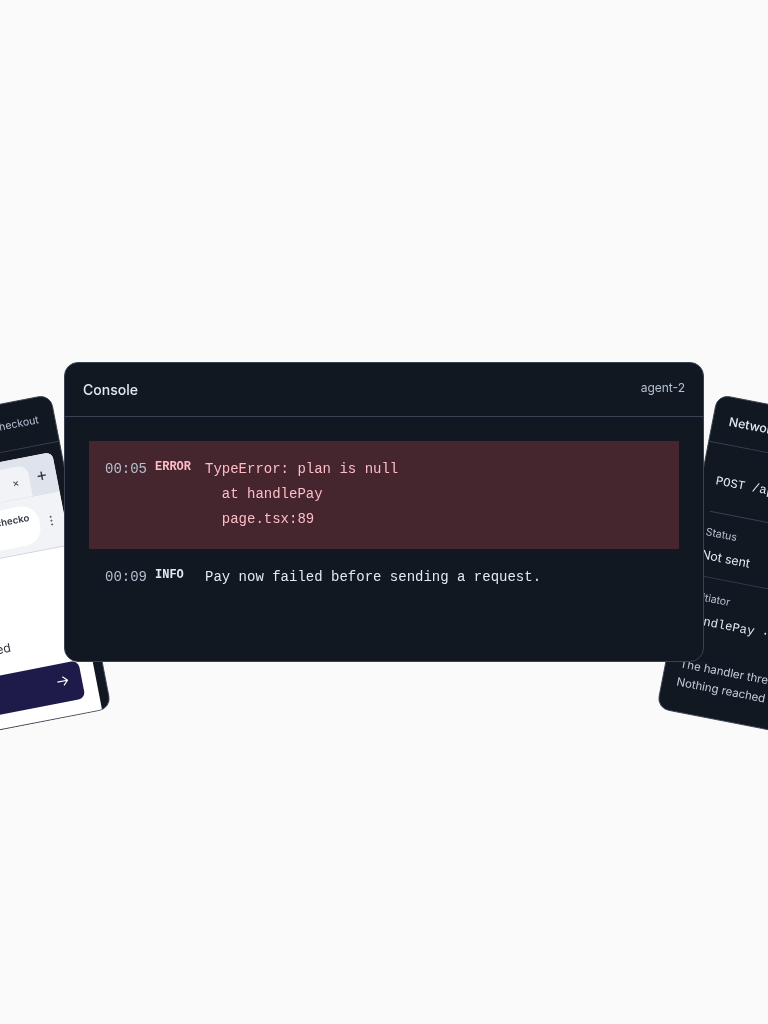
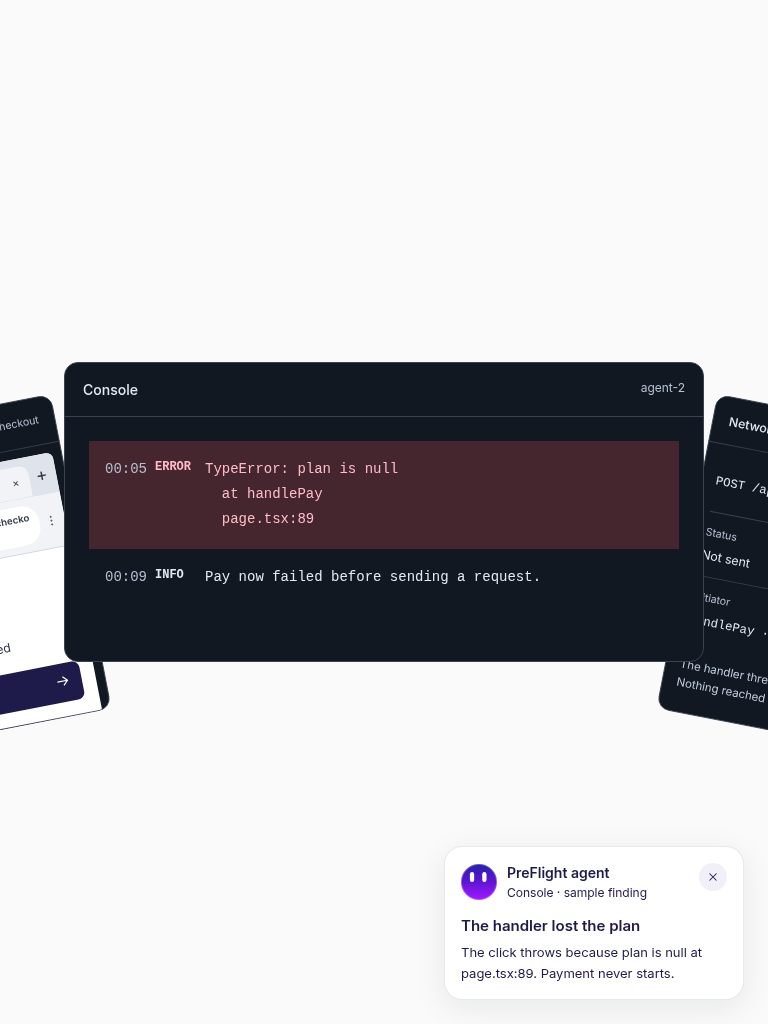
Show contextual robot agent findings beside expanded evidence

Changed region(s): [[0.5938, 0.8438, 0.9062, 0.9688]]

diff --git a/components/RunScrollSequence.tsx b/components/RunScrollSequence.tsx
@@ -1,6 +1,7 @@
 "use client";
 
 import { Children, useEffect, useRef, useState, type ReactNode } from "react";
+import AgentOverview from "./AgentOverview";
 
 export default function RunScrollSequence({
   children,
@@ -11,6 +12,7 @@ export default function RunScrollSequence({
   const frame = useRef<HTMLDivElement>(null);
   const [pinned, setPinned] = useState(false);
   const [active, setActive] = useState(0);
+  const [finding, setFinding] = useState<number | null>(null);
   const scenes = Children.toArray(children);
 
   useEffect(() => {
@@ -60,7 +62,14 @@ export default function RunScrollSequence({
         "data-run-pinned",
         enabled && bounds.top <= 0 && bounds.bottom >= window.innerHeight,
       );
-      if (!enabled) return;
+      if (!enabled) {
+        setFinding(null);
+        cards.forEach((card) => {
+          card.removeAttribute("aria-hidden");
+          card.inert = false;
+        });
+        return;
+      }
       const distance = element.offsetHeight - viewport.offsetHeight;
       const progress =
         distance > 0
@@ -79,6 +88,7 @@ export default function RunScrollSequence({
         const open = Math.min(1, local / 0.7);
         const front = local < 1 ? -1 : Math.min(2, Math.floor(local - 1));
         fan.dataset.front = String(front);
+        setFinding(next === fanScene && front >= 0 ? front : null);
         const cardWidth = Math.min(260, fan.clientWidth * 0.7);
         const cardHeight = cardWidth * 1.4;
         const spread = Math.max(
@@ -120,6 +130,9 @@ export default function RunScrollSequence({
           const focused = index === front;
           card.dataset.front = String(focused);
           const parked = front >= 0 && !focused;
+          // The parked edge previews are decorative until their own scroll beat.
+          card.setAttribute("aria-hidden", String(parked));
+          card.inert = parked;
           const x = parked
             ? side * (window.innerWidth / 2 + cardWidth * 0.12)
             : side * spread * open;
@@ -190,6 +203,9 @@ export default function RunScrollSequence({
             <div className="run-scene-content">{scene}</div>
           </div>
         ))}
+        {pinned && finding !== null && (
+          <AgentOverview key={finding} finding={finding} />
+        )}
       </div>
     </div>
   );

diff --git a/components/AgentOverview.tsx b/components/AgentOverview.tsx
@@ -1,0 +1,76 @@
+"use client";
+
+import { useState } from "react";
+
+const FINDINGS = [
+  {
+    source: "Screenshot",
+    title: "Checkout stalled",
+    description:
+      "Pro is selected. Three clicks on Pay now, and the page still hasn’t responded.",
+  },
+  {
+    source: "Console",
+    title: "The handler lost the plan",
+    description:
+      "The click throws because plan is null at page.tsx:89. Payment never starts.",
+  },
+  {
+    source: "Network",
+    title: "Nothing reached the server",
+    description:
+      "No POST /api/checkout was sent. The handler failed before the request could leave the browser.",
+  },
+];
+
+export default function AgentOverview({ finding }: { finding: number }) {
+  const [dismissed, setDismissed] = useState(false);
+  if (dismissed) return null;
+  const issue = FINDINGS[finding];
+  return (
+    <aside
+      className="agent-overview"
+      aria-label={`${issue.source} agent overview`}
+    >
+      <div className="agent-overview-header">
+        {/* A vector rendition of the supplied robot reference, rather than a remote asset. */}
+        {/* eslint-disable-next-line @next/next/no-img-element */}
+        <img
+          src="/agent-robot.svg"
+          width="36"
+          height="36"
+          alt=""
+          aria-hidden="true"
+        />
+        <div>
+          <p className="agent-overview-name">PreFlight agent</p>
+          <p className="agent-overview-source">
+            {issue.source} · sample finding
+          </p>
+        </div>
+        <button
+          type="button"
+          aria-label="Dismiss agent overview"
+          onClick={() => setDismissed(true)}
+          className="agent-overview-dismiss"
+        >
+          <svg
+            width="14"
+            height="14"
+            viewBox="0 0 24 24"
+            fill="none"
+            stroke="currentColor"
+            strokeWidth="1.75"
+            aria-hidden="true"
+          >
+            <path d="m6 6 12 12M18 6 6 18" />
+          </svg>
+        </button>
+      </div>
+      <div className="agent-overview-finding" role="status" aria-live="polite">
+        <h4>{issue.title}</h4>
+        <p>{issue.description}</p>
+      </div>
+    </aside>
+  );
+}

diff --git a/app/globals.css b/app/globals.css
@@ -359,3 +359,19 @@ html[data-run-pinned] nav[aria-label="Main navigation"] { visibility: hidden; po
 }
 
 @media (prefers-reduced-motion: reduce) { .evidence-card { transition: none !important; transform: none !important; } }
+
+/* A small, contextual agent note, kept outside the evidence windows. */
+.agent-overview { position: absolute; right: 24px; bottom: 24px; z-index: 30; width: min(300px, calc(100% - 32px)); padding: 16px; border: 1px solid var(--line); border-radius: 18px; background: var(--surface); color: #1e1b4b; box-shadow: 0 8px 32px #11182214; animation: agent-overview-enter 320ms 500ms cubic-bezier(0.16, 1, 0.3, 1) both; }
+.dark .agent-overview { color: #edf0f6; box-shadow: 0 8px 32px #0003; }
+.agent-overview-header { display: flex; align-items: center; gap: 10px; }
+.agent-overview-header > img { flex-shrink: 0; }
+.agent-overview-name { font-size: 14px; font-weight: 600; line-height: 1.4; }
+.agent-overview-source { margin-top: 2px; font-size: 12px; line-height: 1.4; }
+.agent-overview-dismiss { display: grid; place-items: center; width: 28px; height: 28px; margin-left: auto; align-self: flex-start; border-radius: 50%; cursor: pointer; }
+.agent-overview-dismiss:hover { background: var(--panel); }
+.agent-overview-finding { margin-top: 14px; }
+.agent-overview-finding h4 { font-size: 15px; font-weight: 600; line-height: 1.4; }
+.agent-overview-finding p { margin-top: 6px; font-size: 13px; line-height: 1.55; }
+@keyframes agent-overview-enter { from { opacity: 0; transform: translateY(12px) scale(.96); } to { opacity: 1; transform: translateY(0) scale(1); } }
+@media (max-width: 479px) { .agent-overview { right: 16px; bottom: 16px; padding: 14px; } }
+@media (prefers-reduced-motion: reduce) { .agent-overview { animation: none; } }

diff --git a/docs/landing-review/README.md b/docs/landing-review/README.md
@@ -1,6 +1,8 @@
 # Scroll-driven evidence fan
 
-The evidence step now shows three portrait cards instead of tabs: Screenshot, Console and Network. They unfold with Screenshot centered and unrotated, Console on the left, and Network on the right. Screenshot is also stacked above the other two, so the first expansion starts in place. Continued scrolling morphs the selected card from playing-card proportions into its own browser or tool-window dimensions. The browser targets a 960×600 desktop window (16:10), Console 640×300, and Network 720×360. On narrower screens the windows fit the available width and retain enough height for readable content, instead of filling the viewport. Other cards retain their playing-card proportions and move to the viewport edges. Reverse scrolling returns to the fan. No glow, tint or highlight marks the selected card. The heading stays anchored; the three cards share a fixed-height stage.
+The evidence step now shows three portrait cards instead of tabs: Screenshot, Console and Network. They unfold with Screenshot centered and unrotated, Console on the left, and Network on the right. Screenshot is also stacked above the other two, so the first expansion starts in place. Continued scrolling morphs the selected card from playing-card proportions into its own browser or tool-window dimensions. The browser targets a 960×600 desktop window (16:10), Console 640×300, and Network 720×360. On narrower screens the windows fit the available width and retain enough height for readable content, instead of filling the viewport. Other cards retain their playing-card proportions and move to the viewport edges. Reverse scrolling returns to the fan.
+
+Each expanded evidence window now has a small, dismissible agent overview at the viewport’s bottom right. It appears after the window opens and explains that card’s specific issue: stalled checkout, null plan, or missing request. Closing it lasts until the next evidence card. The icon is a local SVG rendition of the supplied robot reference (`public/agent-robot.svg`), with no remote image request. No glow, tint or highlight marks the selected card. The heading stays anchored; the three cards share a fixed-height stage.
 
 The browser, evidence, diagnosis and PR still form one centered pinned sequence. Evidence gets four scroll beats: fan opening, screenshot forward, console forward and network forward. The page releases after the PR. Native scrolling remains in place, and the floating site nav is hidden during the sequence.
 
@@ -33,6 +35,7 @@ These after images show the reduced-motion stacked fallback. Before images use t
 - All three viewport sizes in both themes: each card expands to its actual window dimensions; windows stay centered and inside the viewport; other cards park at the sides in playing-card proportions; reverse scrolling restores the fan; no clipped window content or horizontal document overflow. The initial screenshot placement is also checked. See balanced-verification.jsonl.
 - Width, height and transform animate together over 700ms. The heading fades while a window is expanded so it stays out of the way. The pinned stage keeps its reserved height during the expansion.
 - Reduced motion and JavaScript-disabled checks confirm all three cards remain readable without transforms or pinning.
+- Agent-overview checks at all three sizes in both themes verify the matching finding, icon loading, bottom-right placement, dismissal, and that the callout does not cover the key evidence. Mobile audits cover each visible callout in both themes. Parked card previews are hidden from assistive technology while a window is expanded; the stacked fallback restores all cards. See agent-overview-verification.jsonl.
 - Axe WCAG A/AA checks, including text contrast, pass in both themes with no violations or incomplete checks. The stacked fallback exposes all three cards to the audit. See accessibility.jsonl.
 - CTA destinations remain `#early-access`, `#how-it-works` and `/login`. Privacy, Terms and For agents work. Blog and authenticated flows require external credentials; those integrations remain untested here.
 
